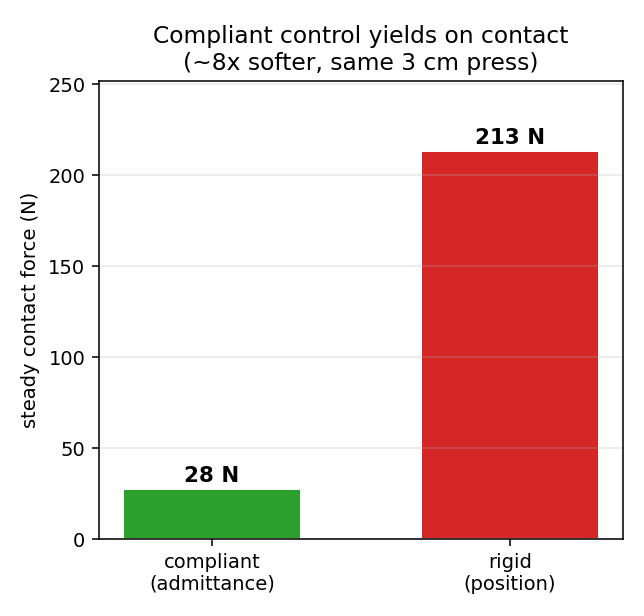
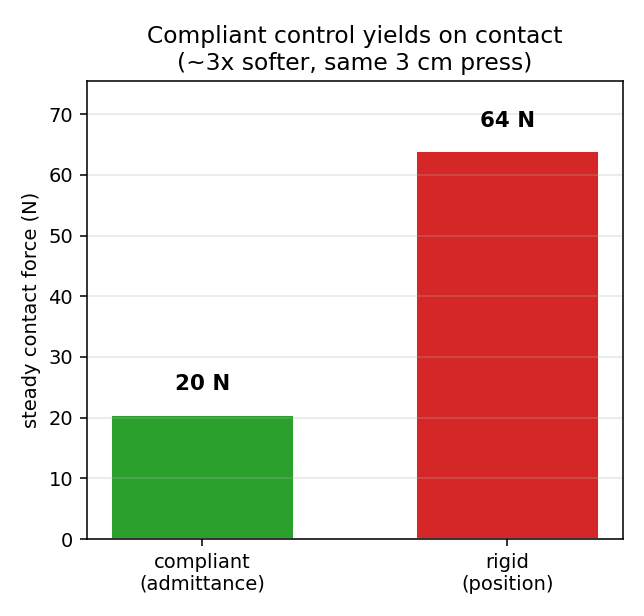
Make the pad's softness real and the IK return honest
- contact_scene: the arm collision class (priority 1) silently overrode the
  pad's soft solref -- MuJoCo gives all contact params to the higher-priority
  geom -- so presses were rigid (first contact jumped ~98 N in one 1 ms step).
  The pad now carries priority 2 and genuinely governs finger-pad contacts.
- inverse_kinematics: return None when the best solve misses by more than
  IK_ACCEPT (5 mm) instead of handing back non-converged poses (up to 131 mm
  off), which defeated every 'if q is None' guard in the callers. Chained
  sub-5mm waypoints still pass; return_info keeps strict 0.1 mm success.
- open_drawer: its frontal pose family never converges by design (~13 cm
  nominal bias absorbed by the measured one-step correction) and now requests
  best-effort explicitly via _ik_nominal.
- Bench refresh: admittance 27.6/213.1 -> 20.5/63.9 N (soft pad, same ~3x
  compliant-vs-rigid contrast), door 54.1 -> 53.7 deg (a 12.3 mm-off arc
  waypoint is now skipped, not commanded), drawer byte-identical at 95.1 mm,
  every other cell unchanged. Full suite green, ruff clean.

diff --git a/openarm_control/articulated.py b/openarm_control/articulated.py
@@ -22,6 +22,18 @@ from .grasp import topdown_orientation, front_orientation
 from .pick_and_place import PickPlaceController
 from .trajectory import quintic_polynomial
 
+
+def _ik_nominal(king, *args, **kwargs):
+    """Best-effort IK for the frontal drawer pose family.
+
+    The exact front-pitched pose is off the reachable manifold (the best
+    solve carries a ~13 cm nominal bias), by design: the skill measures the
+    real tool position after the approach and re-commands shifted, so only
+    the family's consistency matters, not its absolute accuracy. The strict
+    inverse_kinematics return would reject the whole family as failed."""
+    q, _ = king.inverse_kinematics(*args, return_info=True, **kwargs)
+    return q
+
 # Fixed seed for IK random restarts inside the skills: restart sampling is
 # otherwise unseeded, so a skill could land on a different arm branch every
 # run (measured: the frontal drawer pull varied 4-92 mm run to run).
@@ -185,9 +197,9 @@ class ArticulatedController:
         u = np.array([np.cos(th), 0.0, -np.sin(th)])   # finger direction
         half_open = 0.5 * a.arm.gripper_open           # full open can graze the cabinet top
         pre = grasp - 0.10 * u
-        q = a.king.inverse_kinematics(pre, target_mat=R,
-                                      q_init=self.data.qpos[a.king.qpos_indices], restarts=3,
-                                      seed=IK_BRANCH_SEED)
+        q = _ik_nominal(a.king, pre, target_mat=R,
+                        q_init=self.data.qpos[a.king.qpos_indices], restarts=3,
+                        seed=IK_BRANCH_SEED)
         if q is None:
             return False
         self._drive(a, other, [q], 1.8, grip=half_open, viewer=viewer, dt_realtime=dt_realtime)
@@ -195,8 +207,8 @@ class ArticulatedController:
         # advance the open cage onto the handle bar (chained IK, one branch)
         adv = []
         for t in np.linspace(0, 1, 7)[1:]:
-            qn = a.king.inverse_kinematics(pre + t * 0.10 * u, target_mat=R,
-                                           q_init=q, restarts=0, rest_weight=0.0)
+            qn = _ik_nominal(a.king, pre + t * 0.10 * u, target_mat=R,
+                             q_init=q, restarts=0, rest_weight=0.0)
             if qn is not None:
                 q = qn
                 adv.append(q.copy())
@@ -207,8 +219,8 @@ class ArticulatedController:
         tool = self.data.site_xpos[site] + 0.135 * u
         bias = grasp - tool
         if np.linalg.norm(bias) > 0.002:
-            qn = a.king.inverse_kinematics(grasp + bias, target_mat=R,
-                                           q_init=q, restarts=0, rest_weight=0.0)
+            qn = _ik_nominal(a.king, grasp + bias, target_mat=R,
+                             q_init=q, restarts=0, rest_weight=0.0)
             if qn is not None:
                 q = qn
                 self._drive(a, other, [q], 0.8, grip=half_open, viewer=viewer, dt_realtime=dt_realtime)
@@ -219,8 +231,8 @@ class ArticulatedController:
         # pull straight back toward the robot, settle, release, withdraw
         pull = []
         for t in np.linspace(0, 1, 12)[1:]:
-            qn = a.king.inverse_kinematics(grasp + [-distance * t, 0, 0] + bias, target_mat=R,
-                                           q_init=q, restarts=0, rest_weight=0.0)
+            qn = _ik_nominal(a.king, grasp + [-distance * t, 0, 0] + bias, target_mat=R,
+                             q_init=q, restarts=0, rest_weight=0.0)
             if qn is not None:
                 q = qn
                 pull.append(q.copy())
@@ -229,8 +241,8 @@ class ArticulatedController:
         eid = a._weld_id("drawer")
         if eid >= 0:
             self.data.eq_active[eid] = 0
-        back = a.king.inverse_kinematics(grasp + [-distance - 0.08, 0, 0], target_mat=R,
-                                         q_init=q, restarts=0, rest_weight=0.0)
+        back = _ik_nominal(a.king, grasp + [-distance - 0.08, 0, 0], target_mat=R,
+                           q_init=q, restarts=0, rest_weight=0.0)
         if back is not None:
             self._drive(a, other, [back], 1.0, grip=a.arm.gripper_open, viewer=viewer, dt_realtime=dt_realtime)
         return True

diff --git a/openarm_control/kinematics.py b/openarm_control/kinematics.py
@@ -14,7 +14,7 @@ import mujoco
 import numpy as np
 
 from .config import (
-    RIGHT_ARM_JOINTS, RIGHT_EE_SITE, IK_MAX_ITERS, IK_TOLERANCE,
+    RIGHT_ARM_JOINTS, RIGHT_EE_SITE, IK_MAX_ITERS, IK_TOLERANCE, IK_ACCEPT,
     IK_DAMPING, IK_RESTARTS, IK_REST_WEIGHT, IK_MAX_STEP,
 )
 
@@ -166,7 +166,8 @@ class OpenArmKinematics:
     def inverse_kinematics(self, target_pos, target_mat=None, q_init=None,
                            max_iters=IK_MAX_ITERS, tol=IK_TOLERANCE,
                            damping=IK_DAMPING, restarts=IK_RESTARTS,
-                           rest_weight=IK_REST_WEIGHT, return_info=False, seed=0):
+                           rest_weight=IK_REST_WEIGHT, return_info=False, seed=0,
+                           accept=IK_ACCEPT):
         """Robust IK to the tool point.
 
         Tries the supplied seed, the current pose, and the rest pose first, then
@@ -174,8 +175,13 @@ class OpenArmKinematics:
         is seeded (``seed=0``) so identical queries return identical branches --
         an unseeded default made whole skills nondeterministic (a drawer pull
         once measured 4-92 mm across identical runs). Pass ``seed=None`` for
-        stochastic restarts. Returns the joint solution (and, if
-        ``return_info``, a dict with success/error/iterations). State is
+        stochastic restarts. Returns the joint solution, or ``None`` when the
+        best attempt misses by more than ``accept`` (task scale, 5 mm): a
+        few-mm best-effort waypoint in a chained path is functionally exact,
+        but a solve tens of centimetres off is a failure, and returning it as
+        a solution would defeat every ``if q is None`` guard in the callers.
+        With ``return_info``, returns the best attempt regardless plus a dict
+        whose ``success`` reports strict ``tol`` convergence. State is
         restored on exit.
         """
         target_pos = np.asarray(target_pos, dtype=float)
@@ -209,4 +215,4 @@ class OpenArmKinematics:
         if return_info:
             return best_q, {"success": bool(best_err < tol),
                             "error": float(best_err), "seeds_tried": n_tried}
-        return best_q
+        return best_q if best_err < accept else None

diff --git a/openarm_control/config.py b/openarm_control/config.py
@@ -111,6 +111,10 @@ GRIPPER_CLOSED_CTRL = 0.0
 # IK & Control defaults
 IK_MAX_ITERS = 200
 IK_TOLERANCE = 1e-4          # 0.1 mm position convergence
+IK_ACCEPT = 5e-3             # 5 mm: worst best-effort solve still returned as a
+                             # solution (task scale -- few-mm chained waypoints are
+                             # functionally exact; a solve tens of cm off is a
+                             # failure and returns None)
 IK_DAMPING = 5e-2            # initial Levenberg-Marquardt damping (adaptive)
 IK_RESTARTS = 24             # random restarts before giving up
 IK_REST_WEIGHT = 0.02        # nullspace pull toward rest pose (redundancy resolution)

diff --git a/docs/IMPLEMENTATION_LOG.md b/docs/IMPLEMENTATION_LOG.md
@@ -2070,3 +2070,38 @@ scene (the language-commanded "open the drawer then turn the valve" needs
 all fixtures in one scene) and the hollow-ball inertia (the balance stack is
 derived around the solid-sphere 5/7 factor; switching is a coordinated
 change across G_EFF, controllers, tests, and bench, kept as future work).
+
+## Contact honesty + IK contract (2026-07-05)
+
+Two fixes surfaced by an adversarial re-review of the task scenes.
+
+- **The contact pad's softness was inert.** The arm's collision geoms carry
+  `priority="1"`, and MuJoCo gives *all* contact parameters to the
+  higher-priority geom — so finger–pad contacts used the finger's rigid
+  `solref="0.005 1"` and the pad's authored `solref="0.05 1"` never governed
+  a press (first contact jumped ~98 N in a single 1 ms step). Fix:
+  `priority="2"` on `pad_geom` in `contact_scene.xml`. A press now rises
+  smoothly (max per-step jump ~7 N).
+- **`inverse_kinematics` returned non-converged solves as if they were
+  solutions.** The plain return handed back the best attempt even when it
+  missed by tens of centimetres, so callers' `if q is None` guards almost
+  never fired. It now returns `None` when the best solve misses by more than
+  `IK_ACCEPT` (5 mm — task scale; measured caller regimes: chained waypoints
+  reject at 0.1–4.6 mm and are functionally exact, garbage solves sit at
+  97–131 mm). `return_info` still reports strict 0.1 mm convergence.
+  One deliberate opt-out: the drawer's frontal approach family is off the
+  reachable manifold by design (~13 cm nominal bias, absorbed by the skill's
+  measured one-step bias correction) and now requests best-effort explicitly
+  (`_ik_nominal` in articulated.py).
+
+### Verified numbers (full suite green, full bench re-run)
+| cell | before | after | why |
+|---|---|---|---|
+| admittance compliant | 27.6 N | **20.5 N** | pad genuinely soft now |
+| admittance rigid | 213.1 N | **63.9 N** | same (even a rigid press reads lower on a soft pad) |
+| door swung | 54.1 deg | **53.7 deg** | one arc waypoint with a 12.3 mm best solve is now skipped instead of commanded |
+| drawer / valve / all other cells | — | unchanged | drawer byte-identical at 95.1 mm |
+
+The compliant-vs-rigid contrast the admittance row demonstrates is
+controller behaviour, and it survives: same press depth, ~3× lower steady
+force with admittance.

diff --git a/README.md b/README.md
@@ -84,7 +84,7 @@ cloning · ACT (vision) · SAC · LQR+SAC residual**.
 | **Drawer** — opened, frontal grasp (deterministic) | **95 mm** | — | — | — |
 | **Door** — swung (deterministic) | **54°** | — | — | — |
 | **Valve** — turned (deterministic) | **78°** | — | — | — |
-| **Compliant press** — steady contact force (deterministic) | **27 N** (rigid: 213 N) | — | — | — |
+| **Compliant press** — steady contact force (deterministic) | **20 N** (rigid: 64 N) | — | — | — |
 | **Cloth fold** — span reduction (deterministic) | **44 %** | — | — | — |
 | **Ball balance, static** — settle error (deterministic) | PD 0.44 / LQR 0.39 / **MPC 0.39 mm** | — | — | SAC ✗ off plate · LQR+SAC 5.2 mm |
 | **Ball balance, circle** — tracking RMS (deterministic) | PD 40.3 / LQR 39.2 / **MPC 37.7 mm** | — | — | SAC ✗ off plate · LQR+SAC 42.9 mm |
@@ -164,7 +164,7 @@ Measured in simulation (deterministic, from the test suite / demos):
 | RL insertion env — classical (scripted) | **100%** inserted across randomized sockets, ~1.5 mm |
 | RL insertion env — behaviour cloning (state) | **~70%** (head-to-head vs classical 100%) |
 | Reach — BC vs **ACT** (learned, vision + state) | BC **~95%** / ACT **~80%** success |
-| Compliant (admittance) contact | **27 N** vs **217 N** for rigid control pressing the same depth (~8× softer) |
+| Compliant (admittance) contact | **20 N** vs **64 N** for rigid control pressing the same depth (~3× softer) |
 | Articulated manipulation | drawer **~95 mm** open (frontal grasp), cabinet door **~54°**, valve **~78°** |
 | Cloth fold (single-arm) | folds in half — **~44%** span reduction, lays in self-colliding layers |
 

diff --git a/benchmarks/README.md b/benchmarks/README.md
@@ -102,7 +102,7 @@ models and appends their rows when present.
 - **Insertion (peg-in-hole):** classical (scripted) **100%** vs behaviour cloning **~70%**.
 - **Reach:** behaviour cloning **~95%** vs ACT (vision+state) **~80%**.
 - **Articulated:** drawer **~95 mm** (frontal grasp), door **~54°**, valve **~78°** opened (classical).
-- **Admittance:** compliant **27 N** vs rigid **217 N** pressing the same depth (~8× softer).
+- **Admittance:** compliant **20 N** vs rigid **64 N** pressing the same depth (~3× softer; the pad itself is genuinely soft now, so even the rigid press reads far lower than it used to).
 - **Cloth fold:** **~44%** span reduction (single-arm, self-colliding flex cloth).
 - **Ball balance:** PD / LQR / MPC / SAC / LQR+SAC on the same tilting-plate physics.
   Static hold: PD **0.44**, LQR **0.39**, MPC **0.39**, LQR+SAC **5.2 mm**; SAC